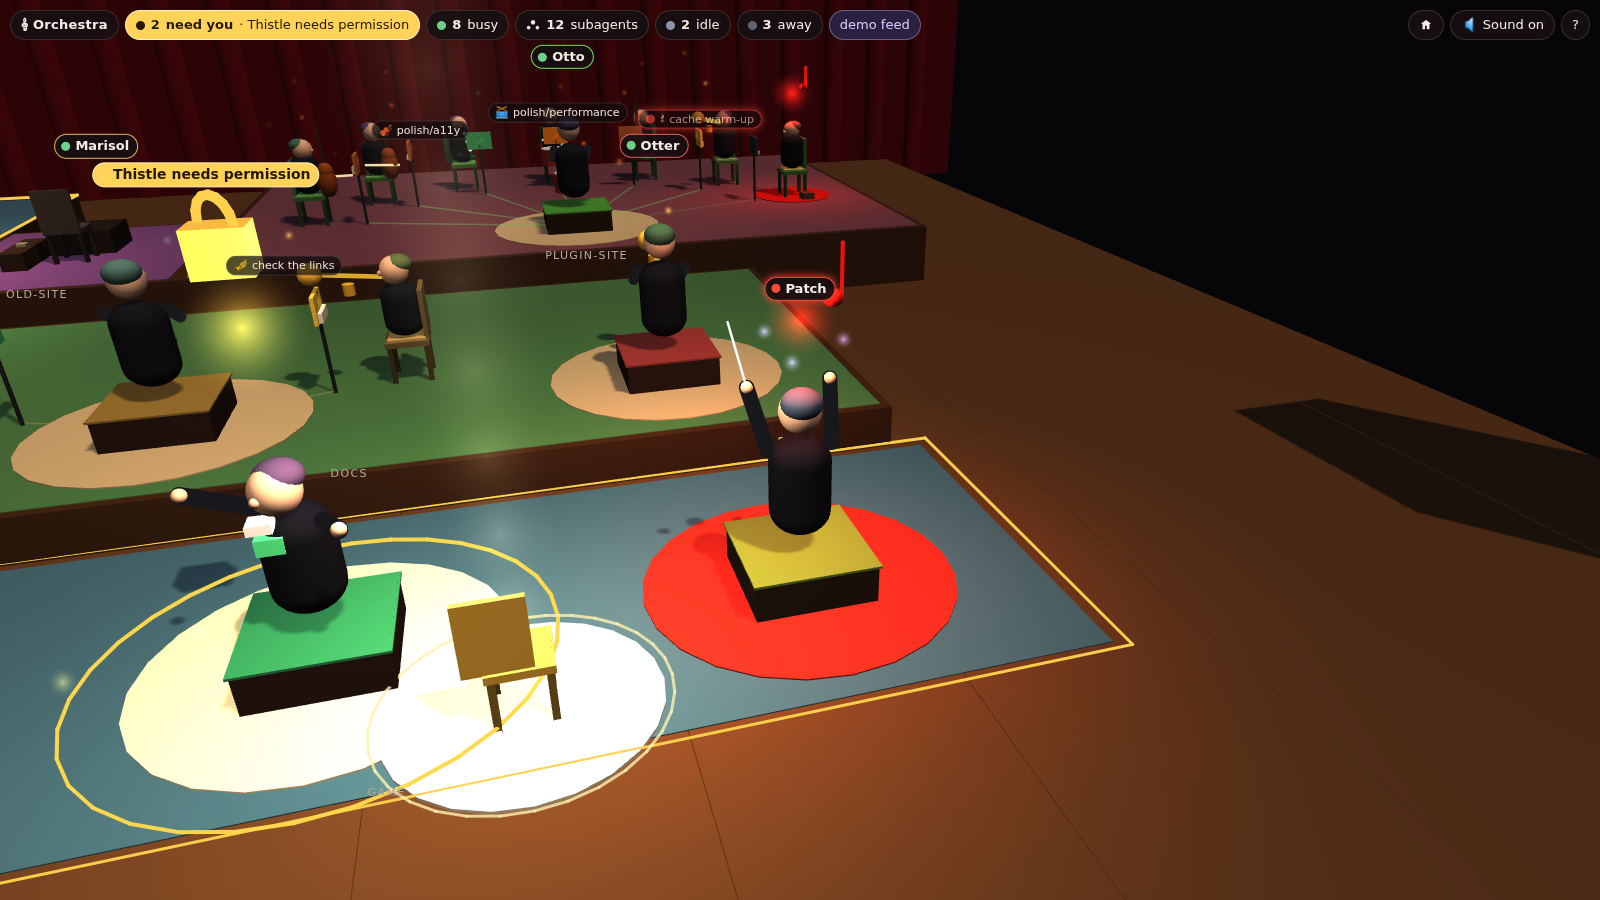
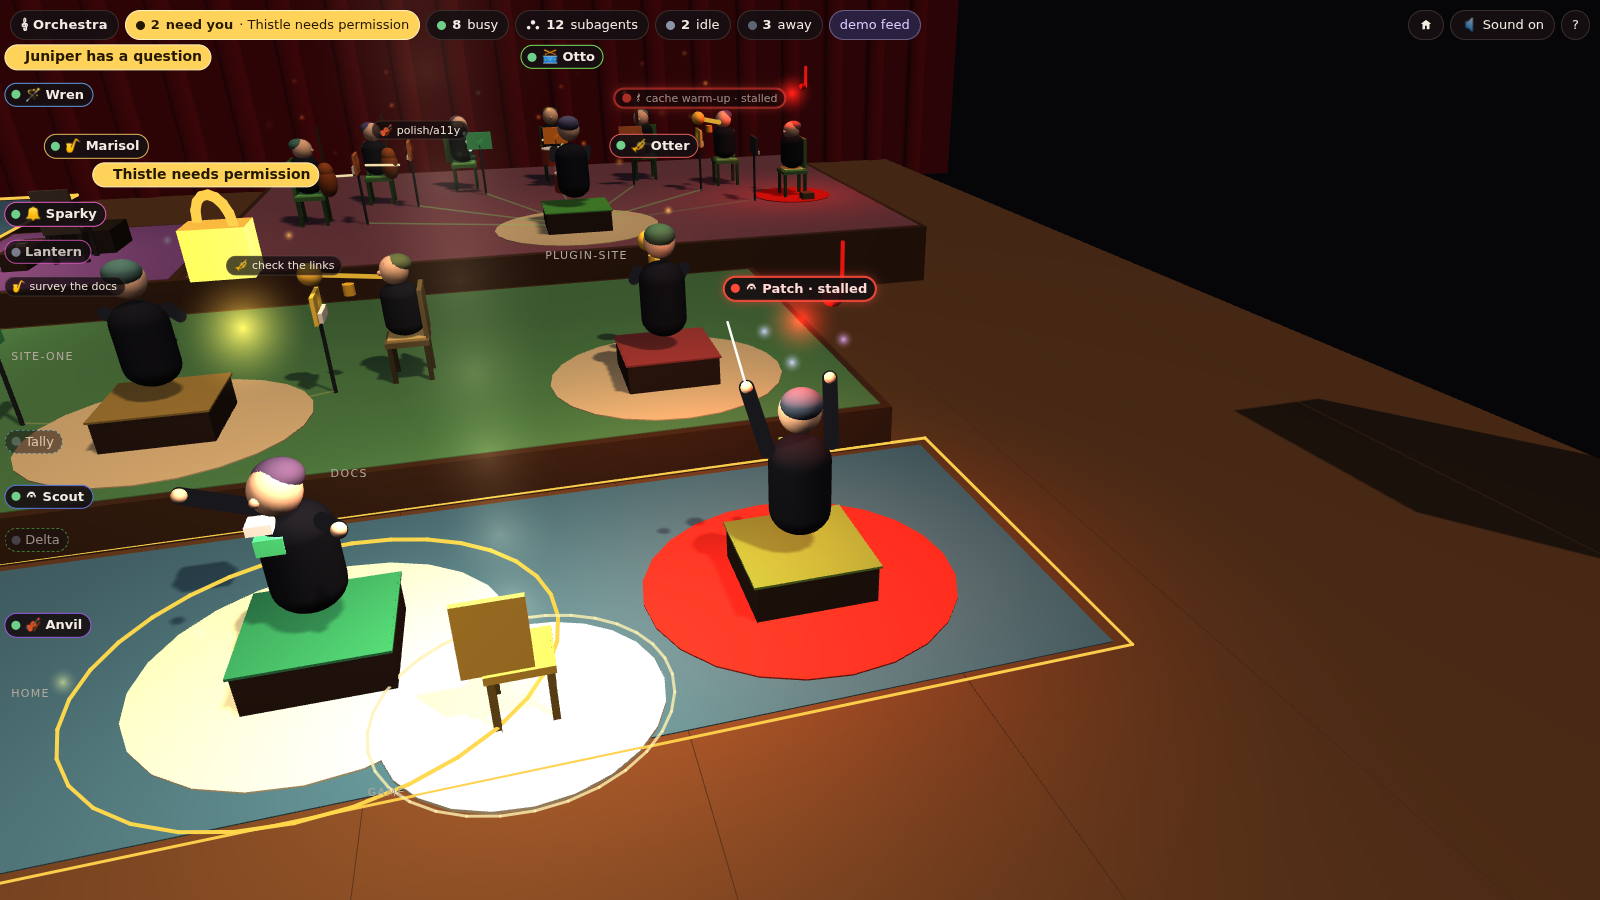
Polish the orchestra: one-line phone bar, labels clear of the HUD, tapped agents clear of the sheet
The phone top bar keeps to one line; labels never sit under it; a tapped
agent slides into the clear band above the bottom sheet; the fit fills
the free screen (from the wings in portrait); busy conductors' labels lead
with their instrument and stalled agents say so in red; Sound on is a
fixed-name toggle with aria-pressed. Smoke gains a phone check.

Claude-Session: https://claude.ai/code/session_01LYNeukFY6qMGdbKQJnTwr8

diff --git a/web/page.js b/web/page.js
@@ -61,15 +61,94 @@
   }
 
   /* ------------------------------------------------------------ camera */
-  function fitView() {
-    const b = stage.bounds, w = b.x1 - b.x0 + 6, d = b.z1 - b.z0 + 6;
-    const aspect = canvas.clientWidth / Math.max(canvas.clientHeight, 1), portrait = aspect < 0.8;
-    // Portrait (a phone): look down more steeply so the stage's depth fills the height.
-    const k = portrait ? 0.95 : 0.7;
-    return {yaw: Math.PI / 2, pitch: portrait ? 1.25 : 0.8, tx: (b.x0 + b.x1) / 2, ty: 0.5, tz: (b.z0 + b.z1) / 2 + 1.2,
-      dist: Math.min(Math.max(w * k / Math.min(aspect, 1.6) + 2, d * 1.15, 12), 110)};
+  // The camera the engine builds (Strata's kit: an orbit about the target,
+  // 50 degree vertical field of view), here so a view can be fitted before it
+  // is drawn. Keep in step with strata_kit.h if the kit changes;
+  // window.__page.projectWith lets a test compare it with kit.project.
+  const FOV_TAN = Math.tan(25 * Math.PI / 180);
+  function projectWith(c, x, y, z, W, H) {
+    const cp = Math.cos(c.pitch);
+    const ex = c.tx + c.dist * cp * Math.cos(c.yaw), ey = c.ty + c.dist * Math.sin(c.pitch), ez = c.tz + c.dist * cp * Math.sin(c.yaw);
+    let fx = c.tx - ex, fy = c.ty - ey, fz = c.tz - ez;
+    const fl = Math.hypot(fx, fy, fz); fx /= fl; fy /= fl; fz /= fl;
+    const rl = Math.hypot(fz, fx), rx = -fz / rl, rz = fx / rl;            // forward x up
+    const ux = -rz * fy, uy = rz * fx - rx * fz, uz = rx * fy;             // right x forward
+    const px = x - ex, py = y - ey, pz = z - ez;
+    const depth = px * fx + py * fy + pz * fz;
+    if (depth <= 0.01) return null;
+    const sx = (px * rx + pz * rz) / (depth * FOV_TAN * (W / H)), sy = (px * ux + py * uy + pz * uz) / (depth * FOV_TAN);
+    return {x: (sx * 0.5 + 0.5) * W, y: (0.5 - sy * 0.5) * H};
   }
-  function fit(instant) { userMoved = false; flyTo(fitView(), instant); }
+
+  // The part of the canvas nothing covers: below the top bar and, with
+  // `panel`, above the bottom sheet (phone) or right of the card (desktop).
+  function freeRect(panel) {
+    const W = canvas.clientWidth, H = canvas.clientHeight;
+    const bar = document.querySelector(".av-bar");
+    const r = {x0: 8, y0: (bar ? bar.getBoundingClientRect().bottom : 0) + 8, x1: W - 8, y1: H - 8, W, H};
+    const p = panel && hud && hud.panel;
+    if (p && !p.hidden) {
+      if (p.offsetWidth >= W - 40) r.y1 = Math.min(r.y1, H - p.offsetHeight - 8);
+      else r.x0 = Math.max(r.x0, p.offsetLeft + p.offsetWidth + 8);
+    }
+    return r;
+  }
+
+  // Moves the camera target so world point (x, y, z) lands on screen (sx, sy):
+  // a few Newton steps on the ground-plane Jacobian.
+  function aim(c, x, y, z, sx, sy, W, H) {
+    for (let i = 0; i < 6; i++) {
+      const q = projectWith(c, x, y, z, W, H);
+      const qx = projectWith(Object.assign({}, c, {tx: c.tx + 1}), x, y, z, W, H);
+      const qz = projectWith(Object.assign({}, c, {tz: c.tz + 1}), x, y, z, W, H);
+      if (!q || !qx || !qz) return c;
+      const a = qx.x - q.x, b = qz.x - q.x, d = qx.y - q.y, e = qz.y - q.y, det = a * e - b * d;
+      if (Math.abs(det) < 1e-6) return c;
+      const dx = sx - q.x, dy = sy - q.y;
+      c.tx += (e * dx - b * dy) / det;
+      c.tz += (a * dy - d * dx) / det;
+    }
+    return c;
+  }
+
+  // The whole stage (every rug, its risers and the figures on the back row)
+  // as large as it fits below the top bar, on phones and desktops alike. A
+  // portrait screen looks down steeply and, when the stage is wider than it
+  // is deep, from the wings, so the stage's long side runs up the screen.
+  function fitView() {
+    const fr = freeRect(false), portrait = fr.W / Math.max(fr.H, 1) < 0.8;
+    const front = fitFrom(Math.PI / 2, portrait ? 1.2 : 0.8, fr);
+    if (!portrait) return front;
+    const wings = fitFrom(0, 1.2, fr);
+    return wings.dist < front.dist * 0.85 ? wings : front;
+  }
+  function fitFrom(yaw, pitch, fr) {
+    const b = stage.bounds, W = fr.W, H = fr.H;
+    const top = stage.rugs.reduce((m, r) => Math.max(m, r.y), 0);
+    const pts = [[b.x0, 0, b.z1 + 0.6], [b.x1, 0, b.z1 + 0.6], [b.x0, top, b.z0], [b.x1, top, b.z0],
+      [b.x0, top + 2.6, b.z0 + 1.5], [b.x1, top + 2.6, b.z0 + 1.5]];
+    const mid = [(b.x0 + b.x1) / 2, top / 2, (b.z0 + b.z1) / 2];
+    const c = {yaw, pitch, dist: 40, tx: mid[0], ty: 0.5, tz: mid[2]};
+    for (let i = 0; i < 30; i++) {
+      const qs = pts.map((p) => projectWith(c, p[0], p[1], p[2], W, H));
+      if (qs.some((q) => !q)) { c.dist *= 1.3; continue; }
+      const bx0 = Math.min(...qs.map((q) => q.x)), bx1 = Math.max(...qs.map((q) => q.x));
+      const by0 = Math.min(...qs.map((q) => q.y)), by1 = Math.max(...qs.map((q) => q.y));
+      const k = Math.max((bx1 - bx0) / (fr.x1 - fr.x0 - 16), (by1 - by0) / (fr.y1 - fr.y0 - 16));
+      c.dist = Math.min(110, Math.max(10, c.dist * Math.pow(k, 0.7)));
+      const m = projectWith(c, mid[0], mid[1], mid[2], W, H);
+      if (m) aim(c, mid[0], mid[1], mid[2], m.x + (fr.x0 + fr.x1) / 2 - (bx0 + bx1) / 2, m.y + (fr.y0 + fr.y1) / 2 - (by0 + by1) / 2, W, H);
+    }
+    return c;
+  }
+  let lastFit = null;
+  function fit(instant) { userMoved = false; lastFit = fitView(); flyTo(lastFit, instant); }
+  // A turned phone or a resized window refits, unless the view was moved since.
+  function refitOnResize() {
+    const c = kit && kit.cam;
+    if (!c || !lastFit || camAnim || userMoved) return;
+    fit(true);
+  }
   function flyTo(to, instant) {
     if (!kit) return;
     if (instant || kit.driven) { Object.assign(kit.cam, to); camAnim = null; return; }
@@ -81,31 +160,60 @@
     for (const key of Object.keys(camAnim.to)) kit.cam[key] = lerp(camAnim.from[key], camAnim.to[key], e);
     if (k >= 1) camAnim = null;
   }
-  function focusOn(id) {
+  // Brings a figure into the clear part of the screen, above the bottom sheet
+  // or beside the card. With `zoom` it also moves in close; otherwise the
+  // camera only slides, and only when the figure is covered or off screen.
+  function reveal(id, zoom) {
     const f = stage.figs.get(id);
-    if (!f) return;
+    if (!f || !kit) return;
     userMoved = true;
-    flyTo({tx: f.target.x, ty: f.target.y + 0.8, tz: f.target.z + 1, dist: Math.min(kit.cam.dist, 16)});
+    const fr = freeRect(true), base = camAnim ? camAnim.to : kit.cam;
+    const c = Object.assign({}, base, zoom ? {dist: Math.min(base.dist, 16)} : {});
+    const p = f.target, y = p.y + 1.0, q = projectWith(c, p.x, y, p.z, fr.W, fr.H), pad = 36;
+    if (!zoom && q && q.x > fr.x0 + pad && q.x < fr.x1 - pad && q.y > fr.y0 + pad + 30 && q.y < fr.y1 - pad) return;
+    flyTo(aim(c, p.x, y, p.z, (fr.x0 + fr.x1) / 2, (fr.y0 + fr.y1) / 2 + 16, fr.W, fr.H));
   }
+  const focusOn = (id) => reveal(id, true);
 
   /* ------------------------------------------------------------ labels */
+  // A busy conductor's label leads with its instrument, so "who is doing
+  // what" reads from the labels alone; a stalled one says so in red.
   function conductorLabel(f) {
     const s = f.session, waiting = s.state === "waiting", sel = f.id === selectedId;
-    const text = waiting ? (s.name || s.id) + " " + (REASON[s.waitingReason] || "needs you") : s.name || s.id.slice(0, 8);
-    const cls = "lead st-" + s.state + (s.stalled ? " stalled" : "") + (sel ? " sel" : "");
-    const el = labels.set("a:" + f.id, {cls, state: s.stalled ? "stalled" : s.state, text});
+    const stalled = !!s.stalled && !waiting, name = s.name || s.id.slice(0, 8);
+    const fam = s.state === "busy" && FAMILY[actionOf(f)];
+    const text = waiting ? name + " " + (REASON[s.waitingReason] || "needs you")
+      : (fam && fam !== FAMILY.none ? fam.icon + " " : "") + name + (stalled ? " · stalled" : "");
+    const cls = "lead st-" + s.state + (stalled ? " stalled" : "") + (sel ? " sel" : "");
+    const el = labels.set("a:" + f.id, {cls, state: stalled ? "stalled" : s.state, text});
     el.style.setProperty("--accent", accentOf(s));
     const c = f.cur;
     return {el, q: kit.project(c.x, c.y + (f.kind === KIND.empty ? 1.5 : 2.4 + (waiting ? 1.0 : 0)), c.z),
       rank: waiting || sel ? 0 : (s.state === "offline" ? 2 : 1)};
   }
+  // A stalled musician's lane says so and outranks its quiet neighbours.
   function laneLabel(f) {
-    const fl = f.follower, sel = f.id === selectedId, c = f.cur;
-    const cls = "lane" + (fl.state === "active" ? "" : " rest") + (fl.stalled ? " stalled" : "") + (sel ? " sel" : "");
-    const text = (FAMILY[actionOf(f)] || FAMILY.other).icon + " " + (fl.label || "subagent");
-    const el = labels.set("a:" + f.id, {cls, state: fl.stalled ? "stalled" : null, text});
+    const fl = f.follower, sel = f.id === selectedId, c = f.cur, stalled = !!fl.stalled;
+    const cls = "lane" + (fl.state === "active" ? "" : " rest") + (stalled ? " stalled" : "") + (sel ? " sel" : "");
+    const text = (FAMILY[actionOf(f)] || FAMILY.other).icon + " " + (fl.label || "subagent") + (stalled ? " · stalled" : "");
+    const el = labels.set("a:" + f.id, {cls, state: stalled ? "stalled" : null, text});
     const sx = c.x + (f.leadX - c.x) * 0.45, sz = c.z + (f.leadZ - c.z) * 0.45;
-    return {el, q: kit.project(sx, c.y + 1.35, sz), rank: sel ? 0 : 4};
+    return {el, q: kit.project(sx, c.y + 1.35, sz), rank: sel ? 0 : (stalled ? 1 : 4)};
+  }
+  // Labels stay on screen and out from under the top bar: one that would sit
+  // under it hides, unless it must show (waiting, selected), then it drops below.
+  function keepClear(items) {
+    const fr = freeRect(false), top = fr.y0 - 4;
+    for (const it of items) {
+      if (!it.q || it.el._skW == null) continue;
+      const half = it.el._skW / 2 + 4, h = it.el._skH || 18;
+      const x = Math.min(Math.max(it.q.x, half), Math.max(half, fr.W - half));
+      it.q = {x, y: it.q.y, w: it.q.w};
+      if (it.q.y - h < top) {
+        if (it.rank <= 0) { it.q = {x, y: top + h, w: it.q.w}; it.tries = 1; } else it.q = null;
+      } else if (it.q.y - 3 * h < top) it.tries = 1;  // no stepping up into the bar to dodge a neighbour
+    }
+    return items;
   }
   function placeLabels() {
     const items = [];
@@ -116,7 +224,7 @@
     }
     for (const f of stage.figs.values()) items.push(f.kind === KIND.musician ? laneLabel(f) : conductorLabel(f));
     labels.end();
-    StrataKit.placeLabels(items);
+    StrataKit.placeLabels(keepClear(items));
   }
   function accentOf(s) { return `hsl(${Math.round((s.seed != null ? s.seed : seedOf(s.id)) % 1 * 360)} 70% 62%)`; }
 
@@ -140,7 +248,9 @@
   function onSelect(target, how) {
     selectedId = idOf(target);
     if (kit) kit.selected = (selectedId && stage.figs.get(selectedId)) || null;
-    if (selectedId && (how === "waiting" || how === "list")) focusOn(selectedId);
+    if (selectedId && (how === "waiting" || how === "list")) reveal(selectedId, true);
+    // A tap opens the card (a bottom sheet on a phone): slide what was tapped out from under it.
+    else if (selectedId && how === "tap") reveal(selectedId, false);
   }
 
   // Extra panel rows: the instrument, and how long a musician has been quiet.
@@ -155,6 +265,8 @@
   }
 
   /* ------------------------------------------------------------ sound button */
+  // A toggle with a fixed name: "Sound on", pressed or not (aria-pressed).
+  // The speaker glyph and the gold edge show the state to the eye.
   function soundButton() {
     const button = document.createElement("button");
     const glyph = document.createElement("span"), word = document.createElement("span");
@@ -162,11 +274,13 @@
     button.id = "sound";
     button.className = "av-chip av-sound";
     button.title = "Play a soft note for each tool call (off by default)";
+    glyph.className = "av-sound-glyph";
+    glyph.setAttribute("aria-hidden", "true");
+    word.textContent = "Sound on";
     button.append(glyph, word);
     const show = () => {
       button.setAttribute("aria-pressed", String(band.on));
       glyph.textContent = band.on ? "🔊" : "🔈";
-      word.textContent = band.on ? "Sound off" : "Sound on";
     };
     button.addEventListener("click", () => { if (band.on) band.disable(); else band.enable(); show(); });
     show();
@@ -234,11 +348,13 @@
     const now = () => (kit.driven ? sceneTime : Date.now() / 1000);
     feed = AgentvizFeed.create({onUpdate: accept, onStatus: hud.setStatus, transform: demoCalls, now});
     window.__orchestra = stage;
-    window.__page = {kit, stage, hud, band, fit, flyTo, focusOn, FAMILY,
+    window.__page = {kit, stage, hud, band, fit, flyTo, focusOn, projectWith, FAMILY,
       select: (id, focus) => hud.select(targetOf(stage.figs.get(id)), focus ? "list" : "api"),
+      tap: (id) => hud.select(targetOf(stage.figs.get(id)), "tap"),
       hold: () => { userMoved = true; },
       get selectedId() { return selectedId; }, get doc() { return feed.doc; }, get polls() { return feed.polls; },
       stopPolling: () => feed.stop(), pollOnce: () => feed.pollOnce(), feed: (d) => feed.push(d)};
+    addEventListener("resize", () => requestAnimationFrame(refitOnResize));
     feed.start();
     kit.start();
     if (kit.driven) kit.drive(0);

diff --git a/web/index.html b/web/index.html
@@ -19,13 +19,28 @@
   .av-s-waiting { background: var(--av-wait); }
   .av-wait .av-dot, .av-needs .av-dot { background: var(--av-wait-fg); }
   .av-badge { color: #d8ccff; background: #2a2140; border-color: rgba(216, 204, 255, 0.35); }
-  .av-sound[aria-pressed="true"] { background: #3a2a10; border-color: var(--av-wait); }
+  .av-sound[aria-pressed="true"] { background: #3a2a10; border-color: var(--av-wait); color: var(--av-note);
+    box-shadow: inset 0 0 0 1px var(--av-wait); }
+  .av-sound[aria-pressed="false"] .av-sound-glyph { opacity: 0.6; }
+  /* Phones: the top bar stays one line. The title is in the tab already; the
+     idle and away counts give way to "need you", busy and subagents. */
+  @media (max-width: 640px) {
+    .av-bar { flex-wrap: nowrap; gap: 4px; }
+    .av-bar .av-chip { padding: 4px 7px; gap: 4px; white-space: nowrap; flex: none; }
+    .av-bar .av-title, .av-bar > span.av-chip:has(.av-s-idle), .av-bar > span.av-chip:has(.av-s-offline) { display: none; }
+    .av-bar .av-badge { font-size: 0; gap: 0; }
+    .av-bar .av-badge::after { content: "demo"; font-size: 11px; }
+    .av-bar button.av-chip { min-width: 40px; justify-content: center; }
+    .av-bar .av-sound .av-sound-glyph { display: none; }
+  }
+  @media (max-width: 400px) { .av-bar .av-badge { display: none; } }
   .av-label.lead { font-size: 13px; font-weight: 600; border-color: var(--accent, var(--av-line)); }
   .av-label.lead.st-offline, .av-label.lead.st-dim { opacity: 0.55; font-weight: 400; border-style: dashed; }
   .av-label.lead.st-idle { opacity: 0.8; }
   .av-label.lead.st-waiting { background: var(--av-wait); color: var(--av-wait-fg); border-color: var(--av-note);
     font-size: 14px; font-weight: 700; z-index: 2; animation: av-throb 1.1s ease-in-out infinite; }
-  .av-label.stalled { border-color: var(--av-stall); box-shadow: 0 0 8px var(--av-stall); }
+  .av-label.stalled { border-color: var(--av-stall); box-shadow: 0 0 0 1px var(--av-stall), 0 0 10px rgba(255, 74, 58, 0.6);
+    color: #ffd9d4; }
   .av-label.lane { font-size: 11px; padding: 1px 7px; background: rgba(15, 10, 12, 0.72); color: #eadfd2; }
   .av-label.lane.rest { opacity: 0.6; }
   .av-label.sel { outline: 2px solid #fff; z-index: 2; }

diff --git a/README.md b/README.md
@@ -41,7 +41,10 @@ Query options: `?fixture=1` (demo feed), `?fps=1` (frame stats).
 
 Drag to orbit, right-drag or two fingers to pan, wheel or pinch to zoom. Tap a
 conductor, musician or empty chair for its card (a bottom sheet on a phone;
-swipe it down or tap the cross to close). The gold **need you** chip names
+swipe it down or tap the cross to close); if the card would cover what you
+tapped, the view slides it into the clear part of the screen. A busy
+conductor's label leads with its instrument, and a stalled agent's label says
+"stalled" in red. The gold **need you** chip names
 who is waiting and why, flies the camera there and cycles through them; the
 house button recentres; **?** opens the legend. If the feed stops answering,
 a banner says so and the last snapshot stays; with no sessions at all, a hint
@@ -118,11 +121,12 @@ as a chip you can tap to jump to it.*
 
 <p>
 <img src="docs/media/phone-sheet.png" width="260" alt="Phone: bottom sheet open on Thistle, which needs permission">
-<img src="docs/media/phone.png" width="260" alt="Phone: the whole stage in portrait">
+<img src="docs/media/phone.png" width="260" alt="Phone: the whole stage in portrait, seen from the wings">
 </p>
 
-*On a phone (390 x 844): the card is a bottom sheet (left, open on Thistle); drag to orbit, pinch to zoom,
-two fingers to pan.*
+*On a phone (390 x 844): the top bar keeps to one line (need you, busy, subagents and the buttons); the card is
+a bottom sheet (left, open on Thistle, slid clear above it); in portrait the stage is seen from the wings so its
+long side runs up the screen (right); drag to orbit, pinch to zoom, two fingers to pan.*
 
 ![The stage from the wings](docs/media/angle-side.png)
 *From the wings, low: the risers step up for the back rows.*
@@ -141,7 +145,8 @@ its note pops on stage; a snapshot's calls are spread over a second and a half
 rather than struck as one chord. While anyone needs you, a gentle two-note
 chime repeats every six seconds. Notes are rate-limited (at most six in three
 seconds) and quiet. On the demo feed the busy agents make a new call every few
-polls so there is something to hear.
+polls so there is something to hear. **Sound on** is a toggle: it lights gold
+while pressed (and says so to a screen reader); press it again to stop.
 
 ## Build and test
 
